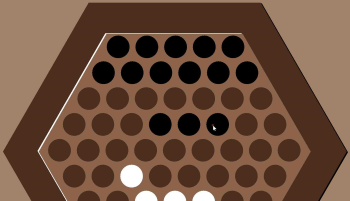
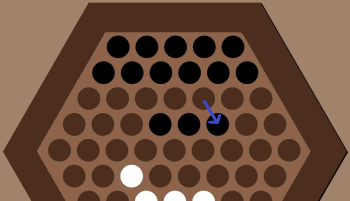
Major rewrite of rules, image edits
- Added arrows to RulesPanel images in Paint to indicate valid places to move
- Also colored in the white board edges
- Unedited images are still there just in case, with "_orig" added to their names
- Edited rule labels to work with the images
- Changed goodByePanel duration to 1250ms (X button is still instant)

diff --git a/src/main/java/abalone/RulesPanel.java b/src/main/java/abalone/RulesPanel.java
@@ -30,7 +30,8 @@ public class RulesPanel extends JPanel
         ImageIcon broadsideRight = null;
         ImageIcon beforePush = null;
         ImageIcon afterPush = null;
-        try{
+        try
+        {
             secondClick = new ImageIcon(ImageIO.read(getClass().getClassLoader().getResourceAsStream("images/SecondClickInline.png")));
             inlineMove = new ImageIcon(ImageIO.read(getClass().getClassLoader().getResourceAsStream("images/InlineMoveMadeSmall.png")));
             selectMultiple = new ImageIcon(ImageIO.read(getClass().getClassLoader().getResourceAsStream("images/SelectMultiple2Small.png")));
@@ -38,52 +39,56 @@ public class RulesPanel extends JPanel
             beforePush = new ImageIcon(ImageIO.read(getClass().getClassLoader().getResourceAsStream("images/BeforePushSmall.png")));
             afterPush = new ImageIcon(ImageIO.read(getClass().getClassLoader().getResourceAsStream("images/AfterPushSmall.png")));
         }
-        catch(IOException e){
+        catch(IOException e)
+        {
 
         }
-		ruleLabels = new JLabel[42];
-		 ruleLabels[0] = new JLabel("   General ");
-         ruleLabels[1] = new JLabel("       - Your objective is to push 6 of your opponent's pieces off the board.");
-		 ruleLabels[2] = new JLabel("       - You may move up to three adjacent pieces, positioned in a STRAIGHT line, one space in one direction.");
-		 ruleLabels[3] = new JLabel("       - This direction can be either 'in-line' (parallel to your line of selected pieces),");
+        
+		ruleLabels = new JLabel[44];
+		 ruleLabels[0] = new JLabel("   General");
+         ruleLabels[1] = new JLabel("      - Your objective is to push six of your opponent's pieces off the board.");
+		 ruleLabels[2] = new JLabel("      - You may move up to three adjacent pieces, positioned in a straight line, one space in one direction.");
+		 ruleLabels[3] = new JLabel("      - This direction can be either 'in-line' (parallel to your line of selected pieces),");
 		 ruleLabels[4] = new JLabel("           or 'broadside' (perpendicular to the line).");
-		 ruleLabels[5] = new JLabel("       - One common strategy involves having more pieces near the center of the board, then");
-		 ruleLabels[6] = new JLabel("           isolating a few of your opponent's pieces on the edge to push them off without resistance.");
-		 ruleLabels[7] = new JLabel("   How to Move");
-		 ruleLabels[8] = new JLabel("       - For an in-line move, find a line of two or three pieces you want to move all at once.");
-		 ruleLabels[9] = new JLabel("       - You will only need to click TWO pieces:");
-		ruleLabels[10] = new JLabel("          ~ First, left-click the piece at the beginning of the line.");
-		ruleLabels[11] = new JLabel("          ~ Then, right-click another piece that is adjacent to the piece you selected.");
-        ruleLabels[12] = new JLabel("      - Think of it like using the first piece in the line to push the other pieces. However, you can only");
-        ruleLabels[13] = new JLabel("          move a total of up to three pieces: The piece you selected, and the other two pieces you're pushing.");
-		ruleLabels[14] = new JLabel("      - The image below shows what an in-line move should look like on the board before it's been made.");
+		 ruleLabels[5] = new JLabel("      ");
+		 ruleLabels[6] = new JLabel("   How to Move");
+		 ruleLabels[7] = new JLabel("      - For an in-line move, find a line of two or three pieces you want to move all at once.");
+		 ruleLabels[8] = new JLabel("          ~ First, left-click the piece at the beginning of the line.");
+		 ruleLabels[9] = new JLabel("               Then, right-click another piece that is adjacent to the piece you selected.");
+		ruleLabels[10] = new JLabel("      - Think of in-line moves like using the first piece in the line to push the other pieces. You can only move");
+        ruleLabels[11] = new JLabel("          up to three pieces total, though: The piece you selected, and the other two pieces you're pushing.");
+        ruleLabels[12] = new JLabel("      - The images below show the board before and after an in-line move.");
+		ruleLabels[13] = new JLabel("          ~ Green arrows indicate directions in which the selected piece(s) can move,");
+        ruleLabels[14] = new JLabel("               and blue arrows indicate the direction in which a piece has moved.");
         ruleLabels[15] = new JLabel(secondClick);
-        ruleLabels[16] = new JLabel("      - The next step for an in-line move would be to right-click another piece that is diagonally adjacent to the selected piece.");
+        ruleLabels[16] = new JLabel(inlineMove);
         ruleLabels[17] = new JLabel("      - NOTE: You should not have more than one piece highlighted when making an in-line move.");
-		ruleLabels[18] = new JLabel("      - The image below shows how the line of 3 pieces will move northwest after having right-clicked.");
-        ruleLabels[19] = new JLabel(inlineMove);
-        ruleLabels[20] = new JLabel("      - For a broadside move, you will select two or three pieces in a straight, unbroken line by left-clicking.");
-        ruleLabels[21] = new JLabel("      - The image below shows three pieces having been selected in a continuous and straight line.");
-        ruleLabels[22] = new JLabel(selectMultiple);
-        ruleLabels[23] = new JLabel("      - Next, you will right-click on an EMPTY space that is diagonal to either end of the line of pieces.");
-        ruleLabels[24] = new JLabel("          In the above image, these would be the spaces northwest and southwest to the leftmost piece, and");
-        ruleLabels[25] = new JLabel("          the spaces northeast and southeast of the rightmost piece.");
-        ruleLabels[26] = new JLabel("      - NOTE: Do not right-click spaces that border MORE THAN ONE PIECE in the selected line of pieces for a broadside move.");
-        ruleLabels[27] = new JLabel("          This is because these spaces do not provide a definitive direction and you won't always move in the direction you intended.");
-        ruleLabels[28] = new JLabel("      - The image below shows the three pieces moving southeast after having right-clicked a valid corresponding space.");
-        ruleLabels[29] = new JLabel(broadsideRight);
-        ruleLabels[30] = new JLabel("      - NOTE: Do not try to move your line of selected pieces directly east or west. This would be the equivalent");
-        ruleLabels[31] = new JLabel("          of an in-line move. Directions on how to make in-line moves are above.");
-        ruleLabels[32] = new JLabel("   Pushing Your Opponent");
-        ruleLabels[33] = new JLabel("      - To push an opponent's piece(s), you must make an IN-LINE move in which your line of pieces outnumbers your opponent's.");
-        ruleLabels[34] = new JLabel("      - The images below show black first left-clicking to select the start of the row they wish to move (highlighted in red),");
-		ruleLabels[35] = new JLabel("          then right-clicking the black piece that borders the red selected piece to the southwest. This results in ");
-		ruleLabels[36] = new JLabel("          the white piece at the end of the line being pushed off the edge of the board.");
-        ruleLabels[37] = new JLabel(beforePush);
-        ruleLabels[38] = new JLabel(afterPush);
-        ruleLabels[39] = new JLabel("      - Just remember: 3 of your pieces push 2 of your opponent's pieces, and 2 of your pieces push 1 of your opponent's pieces.");
-        ruleLabels[40] = new JLabel("      - 1 single piece can't push another (since 1 is not greater than 1), which is why broadside moves can't push opponents.");
-        ruleLabels[41] = new JLabel("   Good luck!");
+        ruleLabels[18] = new JLabel("      ");
+        ruleLabels[19] = new JLabel("      - For a broadside move, select two or three pieces in a straight, unbroken line by left-clicking.");
+        ruleLabels[20] = new JLabel("      - The images below show the board before and after a broadside move.");
+        ruleLabels[21] = new JLabel(selectMultiple);
+        ruleLabels[22] = new JLabel(broadsideRight);
+        ruleLabels[23] = new JLabel("      - NOTE: The spaces BETWEEN those indicated by the green arrows should not be selected when making a broadside move.");
+        ruleLabels[24] = new JLabel("          ~ The travel direction to these spaces is ambiguous, so selecting them when making a broadside move");
+        ruleLabels[25] = new JLabel("               may cause your line of pieces to move in unintended ways.");
+        ruleLabels[26] = new JLabel("      - Do not try to move your line of selected pieces directly east or west. This would be equivalent to");
+        ruleLabels[27] = new JLabel("          an in-line move. Find directions on how to make in-line moves above.");
+        ruleLabels[28] = new JLabel("      ");
+        ruleLabels[29] = new JLabel("   Pushing Your Opponent");
+        ruleLabels[30] = new JLabel("      - To push an opponent's piece(s), you must make an IN-LINE move in which your line of pieces outnumbers your opponent's.");
+        ruleLabels[31] = new JLabel("      - The images below show the board before and after black pushes one of white's pieces off the board.");
+        ruleLabels[32] = new JLabel(beforePush);
+        ruleLabels[33] = new JLabel(afterPush);
+        ruleLabels[34] = new JLabel("      - Black has a line of 3 pieces, which outnumbers white's line of 2 pieces. This allows black to push,");
+		ruleLabels[35] = new JLabel("          which knocks one of white's pieces off the board.");
+        ruleLabels[36] = new JLabel("      - NOTE: 1 single piece can't push another single piece, since 1 is not greater than 1.");
+        ruleLabels[37] = new JLabel("          ~ This is why broadside moves can't push opponents.");
+        ruleLabels[38] = new JLabel("   Tips");
+        ruleLabels[39] = new JLabel("      - One common strategy involves having more pieces near the center of the board, then");
+        ruleLabels[40] = new JLabel("          isolating a few of your opponent's pieces on the edge to push them off without resistance.");
+        ruleLabels[41] = new JLabel("      ");
+        ruleLabels[42] = new JLabel("   Good luck!");
+        ruleLabels[43] = new JLabel("      ");
 
 		for (int i = 0; i < ruleLabels.length; ++i)
         {

diff --git a/src/main/java/abalone/AbaloneMenu.java b/src/main/java/abalone/AbaloneMenu.java
@@ -226,14 +226,15 @@ public class AbaloneMenu extends JFrame
 				updateImage();
 			}
 			//Main menu "quit" button or game panel JMenuBar "Quit to... Desktop" button
-			//Displays goodByePanel for 1.5 seconds before closing program
+			//Displays goodByePanel for roughly 1 second before closing program
+			//User can still press X button to close the program instantly
 			else if (actionEvent.getActionCommand().equals("Quit") || actionEvent.getActionCommand().equals("Desktop"))
 			{
 				setContentPane(goodByePanel);
 				setJMenuBar(null);
 				updateImage();
 
-				Timer timer = new Timer(1500, new ActionListener()
+				Timer timer = new Timer(1250, new ActionListener()
 					{
 						public void actionPerformed(ActionEvent e)
 						{
